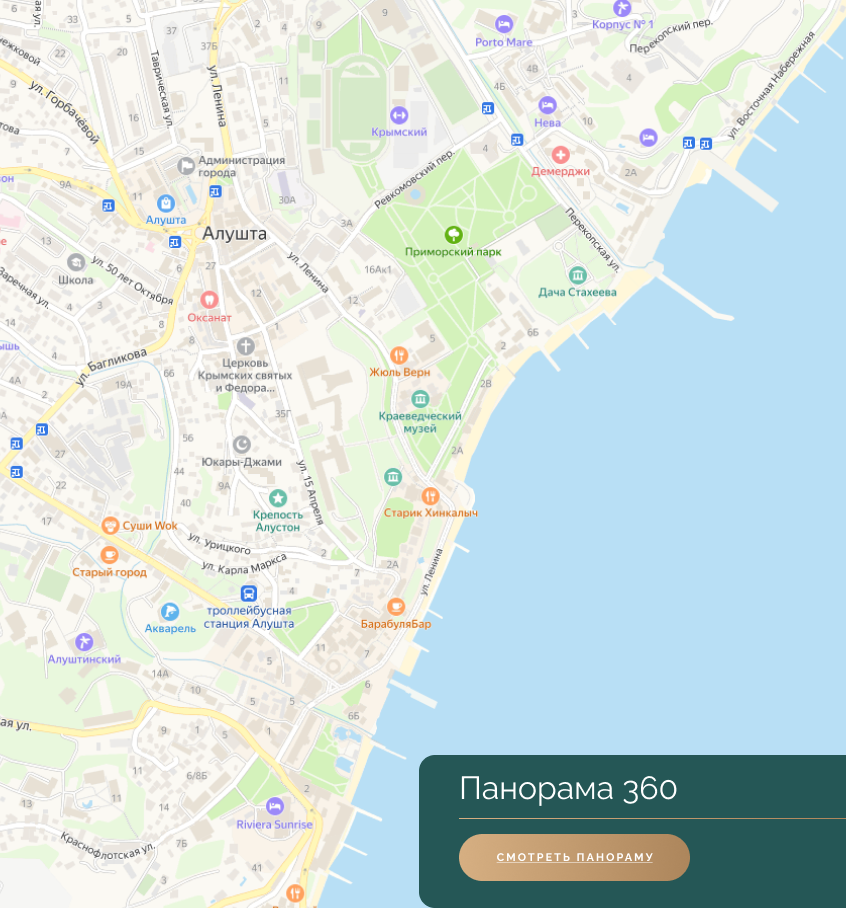
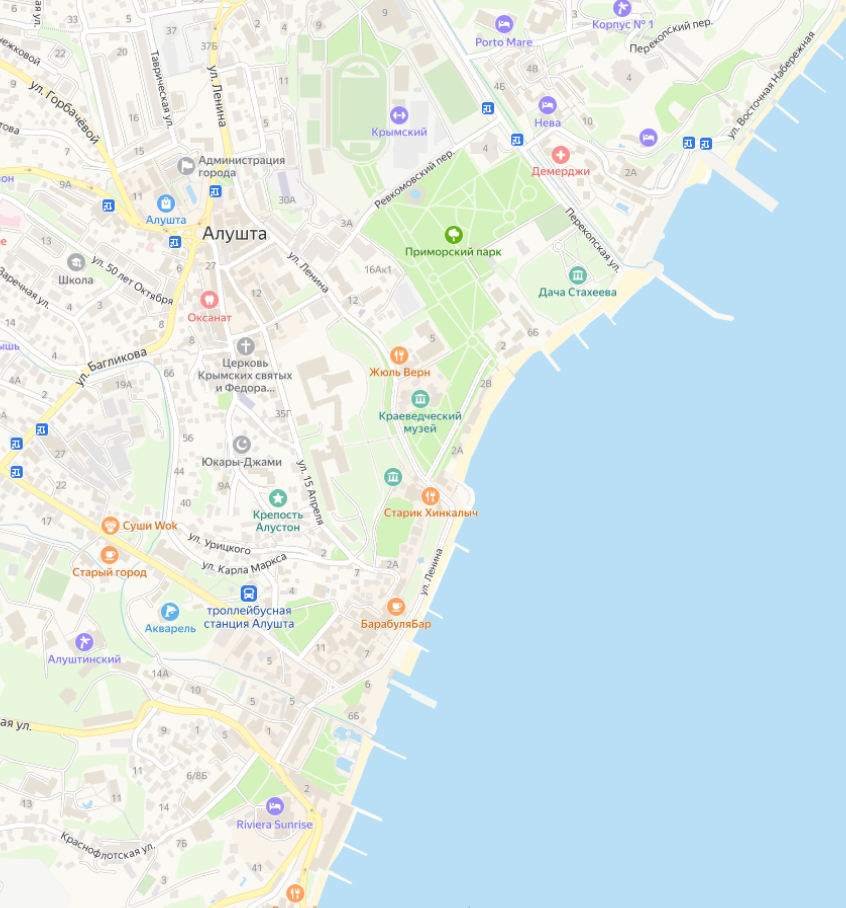
Add files via upload

Changed region(s): [[0.4917, 0.8326, 1.0, 1.0]]

diff --git a/Park-Plaza/index.html b/Park-Plaza/index.html
@@ -137,7 +137,7 @@
             <section class="about">
                 <div class="about-wrap">
                     <div class="about-text">
-                        <h2>Комплекс апартаментов <span>PARK PLAZA</span></h2>
+                        <h2>Комплекс<br> апартаментов <span>PARK PLAZA</span></h2>
                         <p>- это современный гостиничный комплекс бизнес-класса, расположившийся в 150 метрах от моря, в
                             центре “Приморского парка” г. Алушта. Благодаря грамотному проектированию и расположению из
                             окон каждого апартамента открываются завораживающие виды на море и горы, а панорамное
@@ -171,6 +171,10 @@
                         </div>
                     </div>
                     <div class="about-map">
+                        <div class="panorama">
+                            <div class="title_panorama">Панорама 360</div>
+                            <a href="http://prspktv360.beget.tech/alushta/" class="btn" target="_blank">СМОТРЕТЬ ПАНОРАМУ</a>
+                        </div>
                     </div>
                 </div>
             </section>
